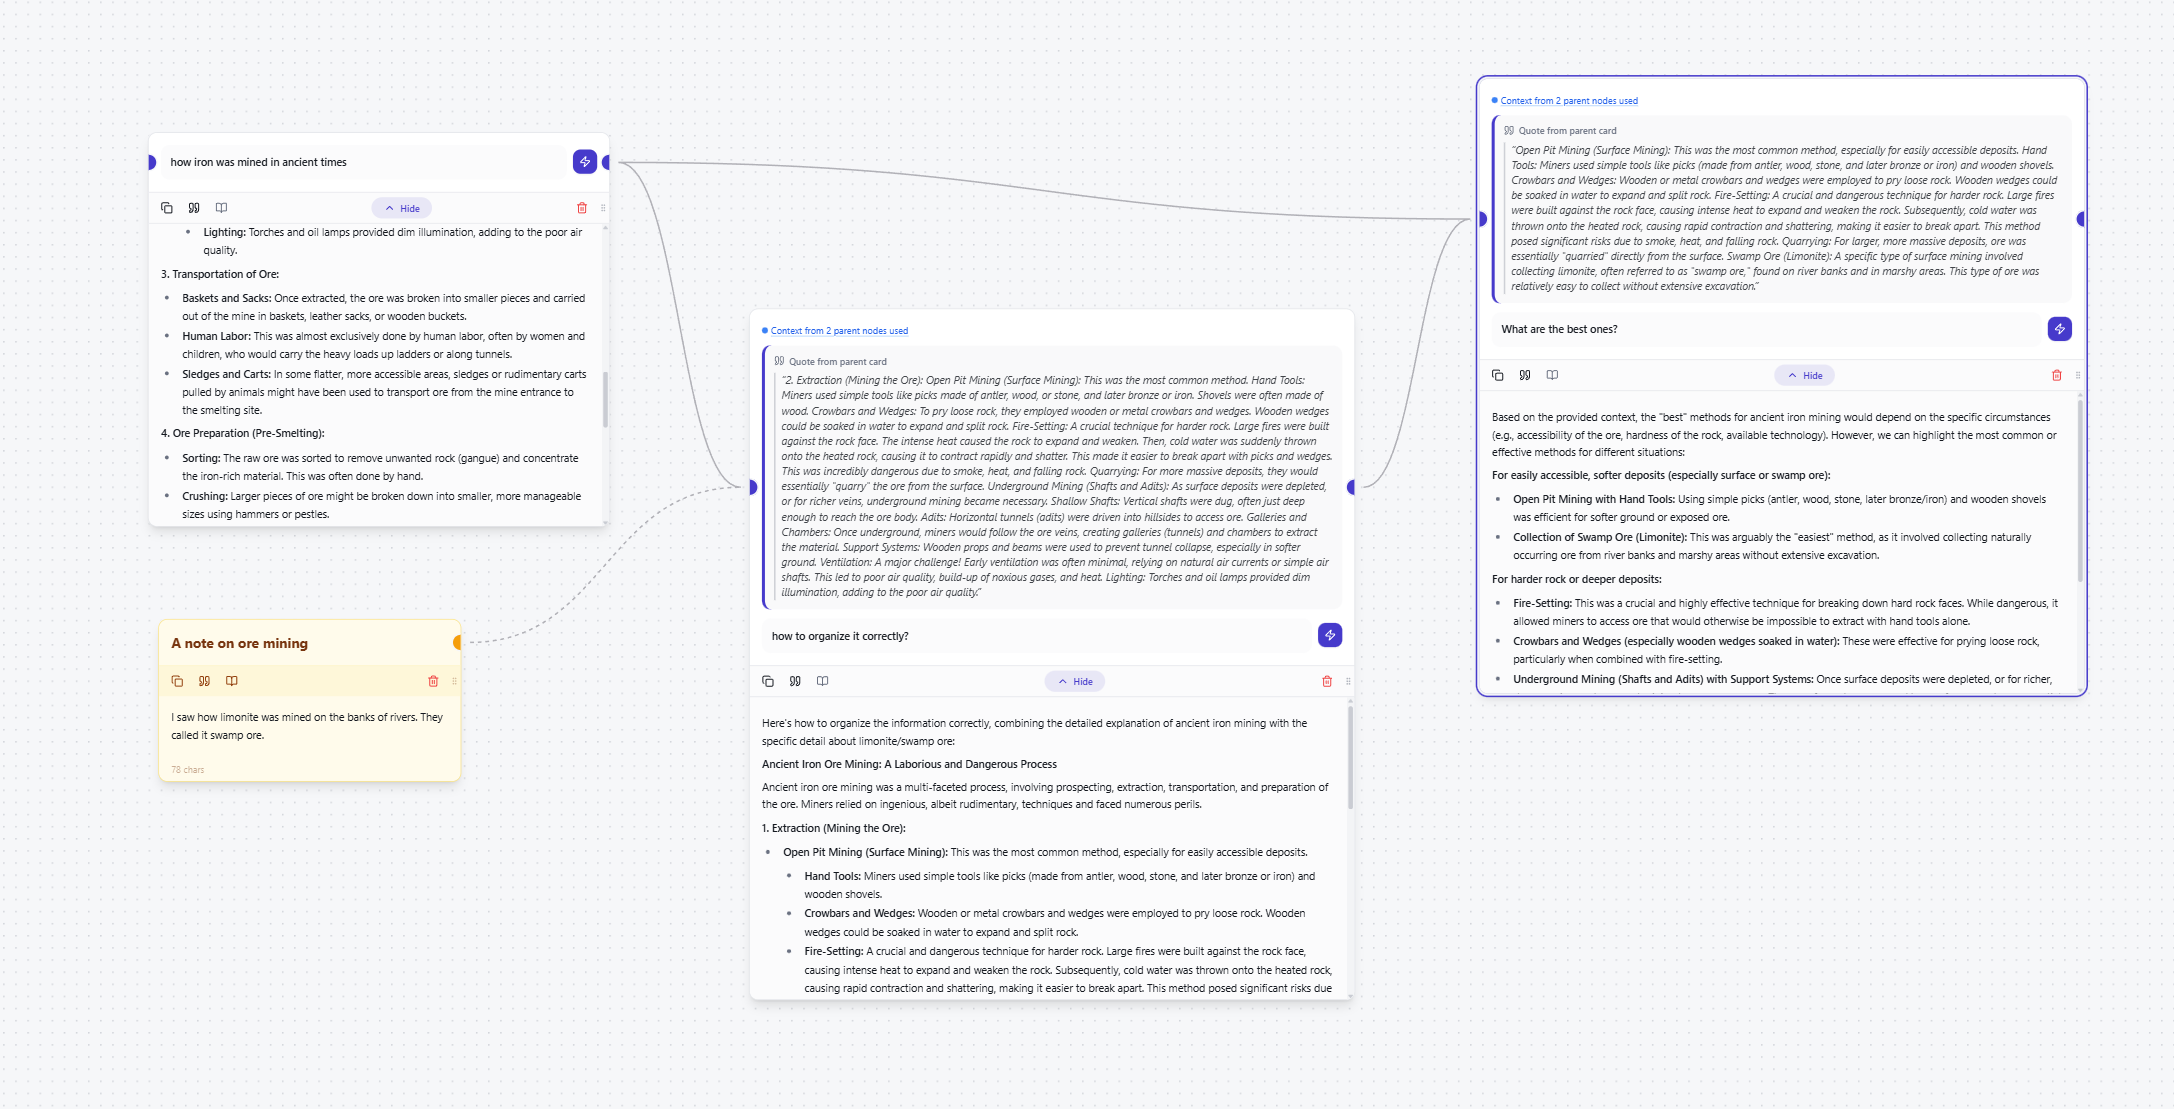
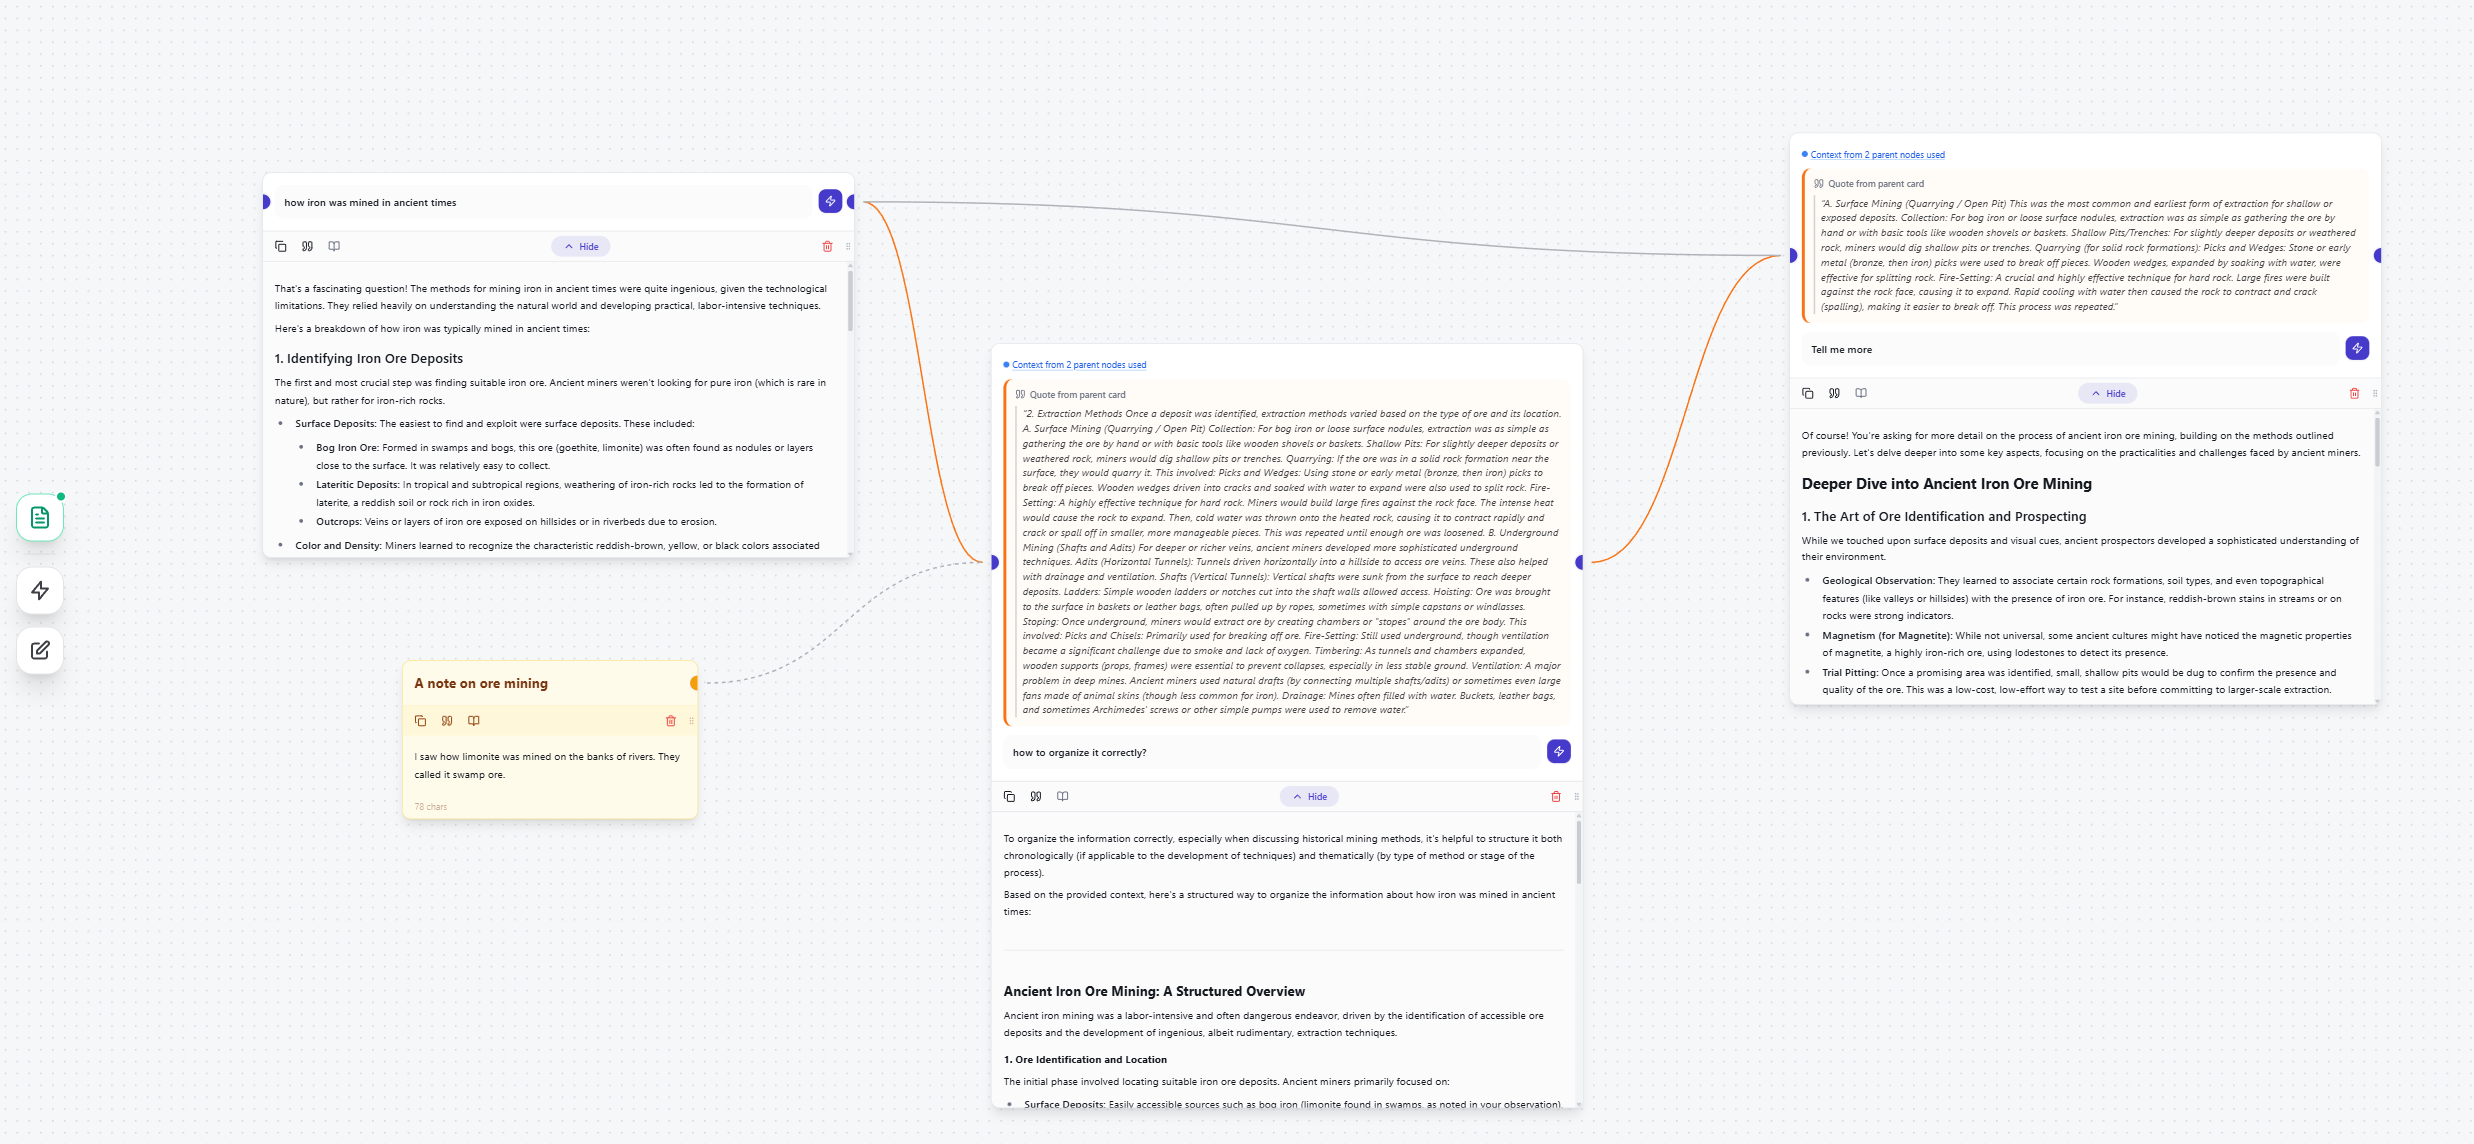
Обновил Readme.

diff --git a/README.md b/README.md
@@ -61,6 +61,10 @@ NeuroCanvas allows you to:
 - **vsellm.ru** (Russian proxy, RUB payments)
 - **Custom API** (Any OpenAI-compatible API, e.g., LM Studio or Ollama)
 
+### 🧠 System Instructions
+Define global system instructions and behavioral rules for the LLM that apply to the entire canvas context. Control the persona, tone, and constraints of your AI assistant.
+![System Instructions](./docs/images/SystemPrompt.png)
+
 ### 🎨 Visual Canvas
 - **Infinite canvas** with navigation and zoom
 - **Drag-to-Create**: drag a connection to create a card
@@ -68,6 +72,11 @@ NeuroCanvas allows you to:
 - **Dynamic Positioning**: new child cards automatically position to the right of parent with proper spacing
 - **Resizable Cards**: drag the right edge to adjust card width
 - **Automatic Context**: parent cards form the context for children
+- **Colored Connections**: Visual distinction between standard parent-child links and quote-based connections.
+
+### 📖 Reading Mode
+Focus on the content with a distraction-free reading mode for any card. Ideal for studying long responses or notes without UI clutter.
+![Reading Mode](./docs/images/ReadingMode.png)
 
 ### 📝 Card Types
 - **AI Cards**: interact with LLM, generate responses, support context inheritance
@@ -82,6 +91,7 @@ NeuroCanvas allows you to:
 - **Quote Invalidation**: automatic detection when source response changes
 - **Quote Update**: re-select quote when source is modified
 - **Visual Highlighting**: quoted sections highlighted in context viewer
+- **Colored Links**: Connections created from quotes have distinct colors on the canvas.
 
 ### 🔍 Smart Search (RRF)
 Combines 4 search methods for perfect results:
